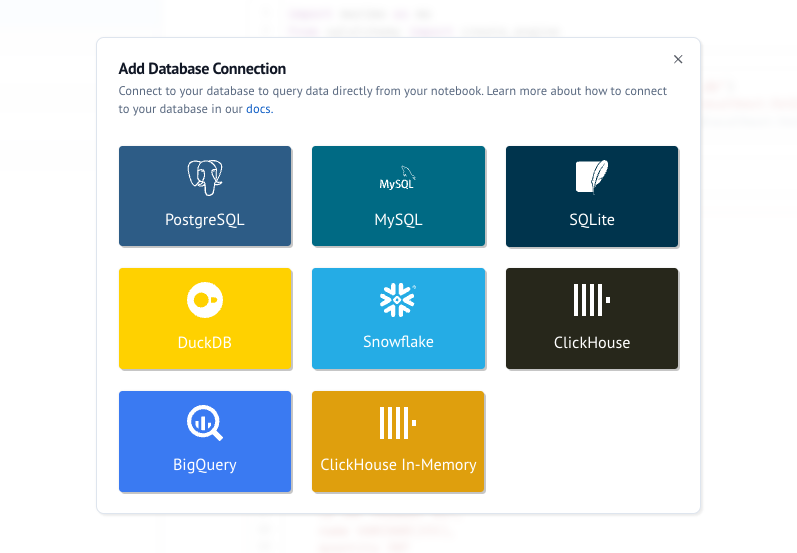
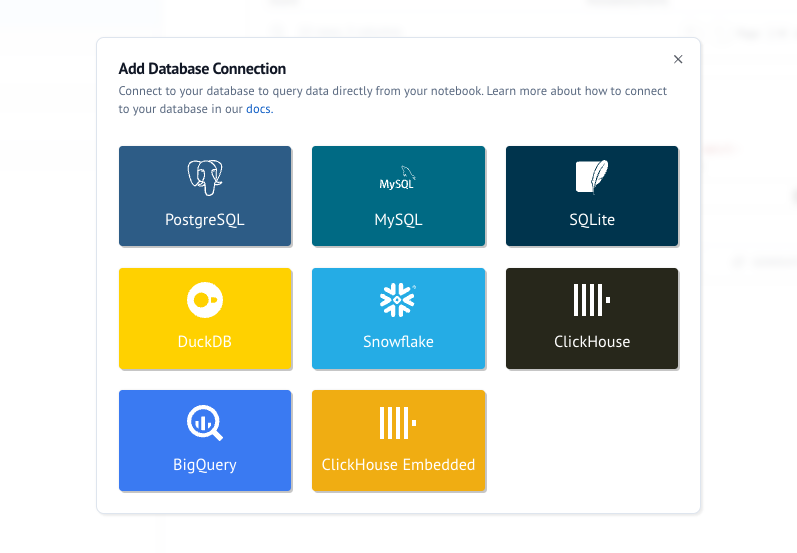
update docs and colour

diff --git a/frontend/src/components/editor/database/add-database-form.tsx b/frontend/src/components/editor/database/add-database-form.tsx
@@ -120,9 +120,9 @@ const SCHEMAS = [
     },
   },
   {
-    name: "ClickHouse In-Memory",
+    name: "ClickHouse Embedded",
     schema: ChdbConnectionSchema,
-    color: "#e3a909",
+    color: "#f2b611",
     logo: "clickhouse",
     connectionLibraries: {
       libraries: ["chdb"],
